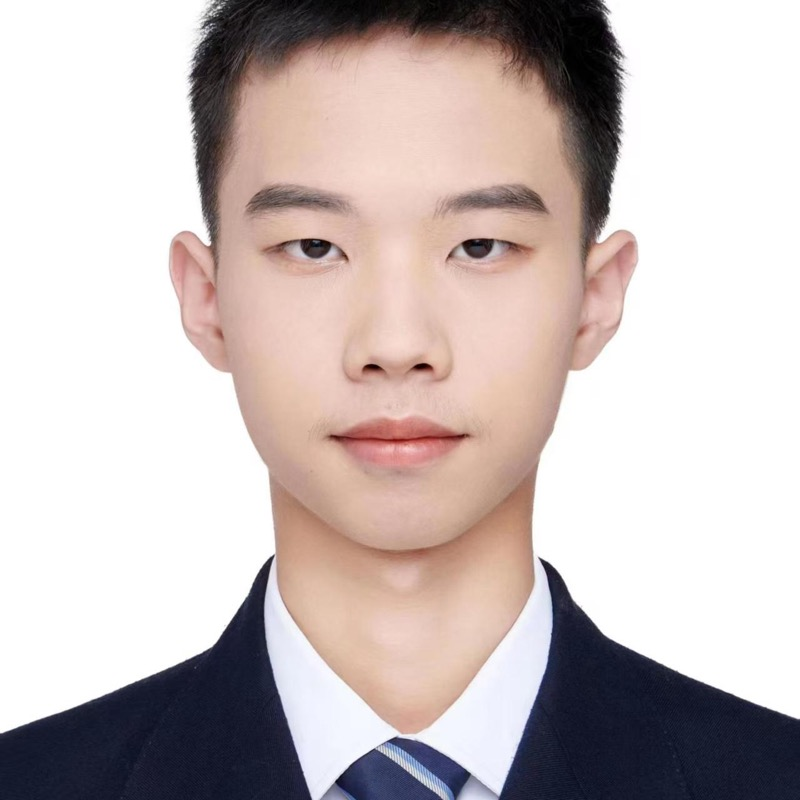
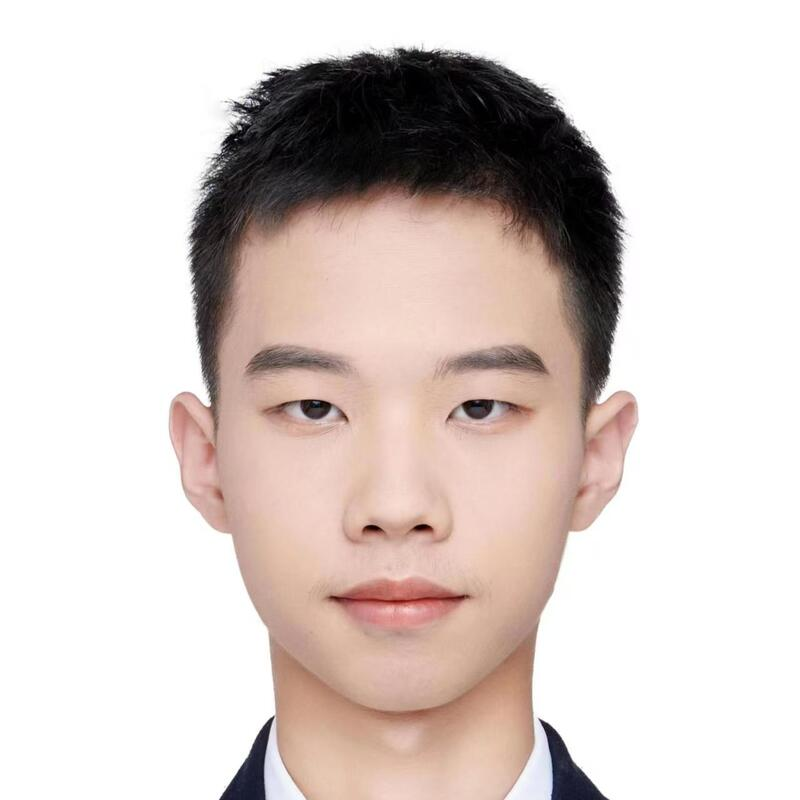
Refine research focus, awards, and portrait

diff --git a/_pages/about.md b/_pages/about.md
@@ -7,18 +7,19 @@ redirect_from:
   - /about.html
 ---
 
-I am an undergraduate student at the School of Mathematics, Sun Yat-sen University, advised by Professor Changzheng Li and Associate Professor Yirong Huang. My current work spans algebraic geometry, matrix analysis, functional equations, complex analysis, and quantitative finance.
+I am an undergraduate student at the School of Mathematics, Sun Yat-sen University, advised by Associate Professor Yirong Huang and Professor Changzheng Li. My current work focuses on financial volatility forecasting and Schubert calculus, alongside research in matrix analysis, functional equations, and complex analysis.
 
 I am particularly interested in connecting rigorous mathematics with modern problems in machine learning, optimization, and quantitative finance. I am currently seeking research assistant and graduate research opportunities where mathematical structure, provable methods, and interdisciplinary problem solving play a central role.
 
 Research interests
 ------
 
-- Algebraic geometry and Schubert calculus
+- Financial volatility modeling and forecasting
+- Quantitative finance and financial technology
+- Schubert calculus and algebraic geometry
 - Matrix analysis, spectral methods, and tensor computation
 - Functional equations and complex analysis
 - Mathematical foundations of machine learning and optimization
-- Stochastic modeling, quantitative finance, and financial technology
 
 Selected research
 ------
@@ -38,13 +39,13 @@ This ongoing project investigates permutation-invariant representations of subsp
 Research direction
 ------
 
-My broader goal is to develop mathematically principled methods for inference and decision-making. I am especially interested in projects at the intersection of geometry, matrix and tensor methods, optimization, trustworthy machine learning, and financial modeling.
+My primary interest is financial volatility forecasting, including mathematically grounded statistical and machine-learning methods for high-frequency and realized-volatility data. I am also interested in Schubert calculus and in broader connections among geometry, matrix and tensor methods, optimization, and structured machine learning.
 
 Honors and projects
 ------
 
-- Honorable Mention, 2026 COMAP Mathematical Contest in Modeling / Interdisciplinary Contest in Modeling (MCM/ICM)
-- Guangdong Provincial Second Prize, 2025 Contemporary Undergraduate Mathematical Contest in Modeling (CUMCM)
+- Honorable Mention, 2026 COMAP Mathematical Contest in Modeling (MCM), Problem B
+- Guangdong Provincial Second Prize, 2025 Contemporary Undergraduate Mathematical Contest in Modeling (CUMCM), Problem A
 - Provincial-level Undergraduate Innovation and Entrepreneurship Training Program project
 
 Availability

diff --git a/_pages/cv.md b/_pages/cv.md
@@ -15,20 +15,20 @@ Undergraduate Student in Mathematics, 2023--September 2027 (expected)
 Research interests
 ======
 
-Algebraic geometry and Schubert calculus; matrix analysis; functional equations; complex analysis; mathematical foundations of machine learning and optimization; stochastic modeling and quantitative finance.
+Financial volatility modeling and forecasting; quantitative finance and financial technology; Schubert calculus and algebraic geometry; matrix analysis; functional equations; complex analysis; mathematical foundations of machine learning and optimization.
 
 Research experience
 ======
+
+**Research in Quantitative Finance**<br>
+Advisor: Associate Professor Yirong Huang, Sun Yat-sen University
+
+Conducted research in financial volatility modeling and forecasting. Detailed project descriptions and research outputs will be added as the corresponding manuscripts become publicly available.
 
 **Undergraduate Research in Schubert Calculus**<br>
 Advisor: Professor Changzheng Li, Sun Yat-sen University
 
 Conducted research on Graham positivity for quantum double Schubert polynomials under academic supervision. Developed and checked proof arguments involving Schubert calculus, positivity, and related combinatorial structures.
-
-**Research in Quantitative Finance**<br>
-Advisor: Associate Professor Yirong Huang, Sun Yat-sen University
-
-Conducted research in quantitative finance and financial modeling. Detailed project descriptions and research outputs will be added as the corresponding manuscripts become publicly available.
 
 **Independent and Collaborative Mathematical Research**
 
@@ -57,8 +57,8 @@ Research skills
 Honors and projects
 ======
 
-- Honorable Mention, 2026 COMAP Mathematical Contest in Modeling / Interdisciplinary Contest in Modeling (MCM/ICM)
-- Guangdong Provincial Second Prize, 2025 Contemporary Undergraduate Mathematical Contest in Modeling (CUMCM)
+- Honorable Mention, 2026 COMAP Mathematical Contest in Modeling (MCM), Problem B
+- Guangdong Provincial Second Prize, 2025 Contemporary Undergraduate Mathematical Contest in Modeling (CUMCM), Problem A
 - Provincial-level Undergraduate Innovation and Entrepreneurship Training Program project
 
 Languages

diff --git a/SITE_CONTENT_CHECKLIST.md b/SITE_CONTENT_CHECKLIST.md
@@ -36,6 +36,13 @@ For every item that should appear publicly:
 - DOI, arXiv, SSRN, PDF, and code links, when public
 - A two- or three-sentence plain-language summary
 
+## Supporting research materials
+
+- Selected slide decks suitable for public viewing
+- Technical reports that add context beyond a paper
+- One definitive PDF per item; superseded drafts should remain private
+- Confirmation that collaborators and supervisors permit public distribution
+
 ## Research experience
 
 - Supervisor names and affiliations (confirmed: Changzheng Li and Yirong Huang, Sun Yat-sen University)
